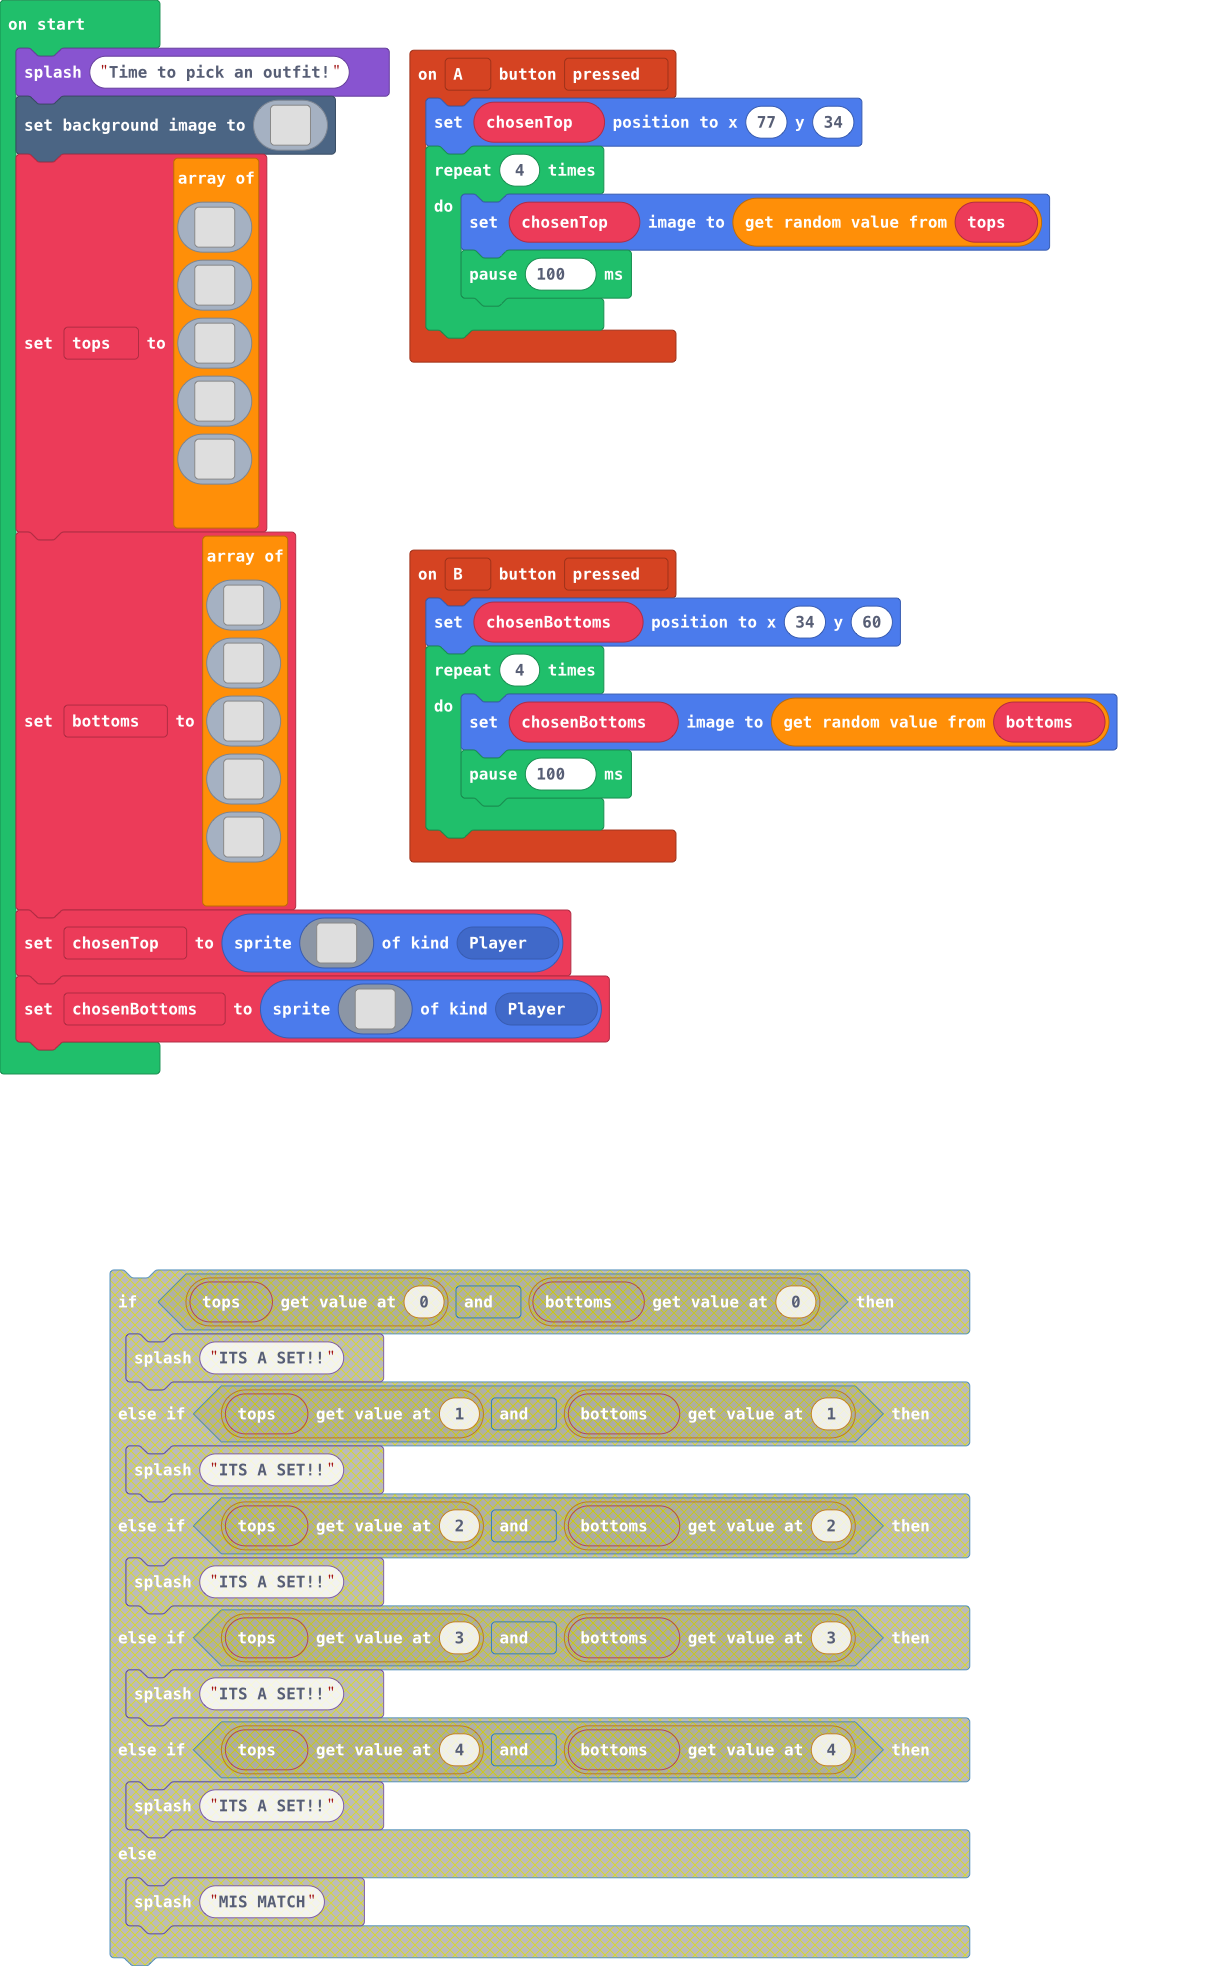
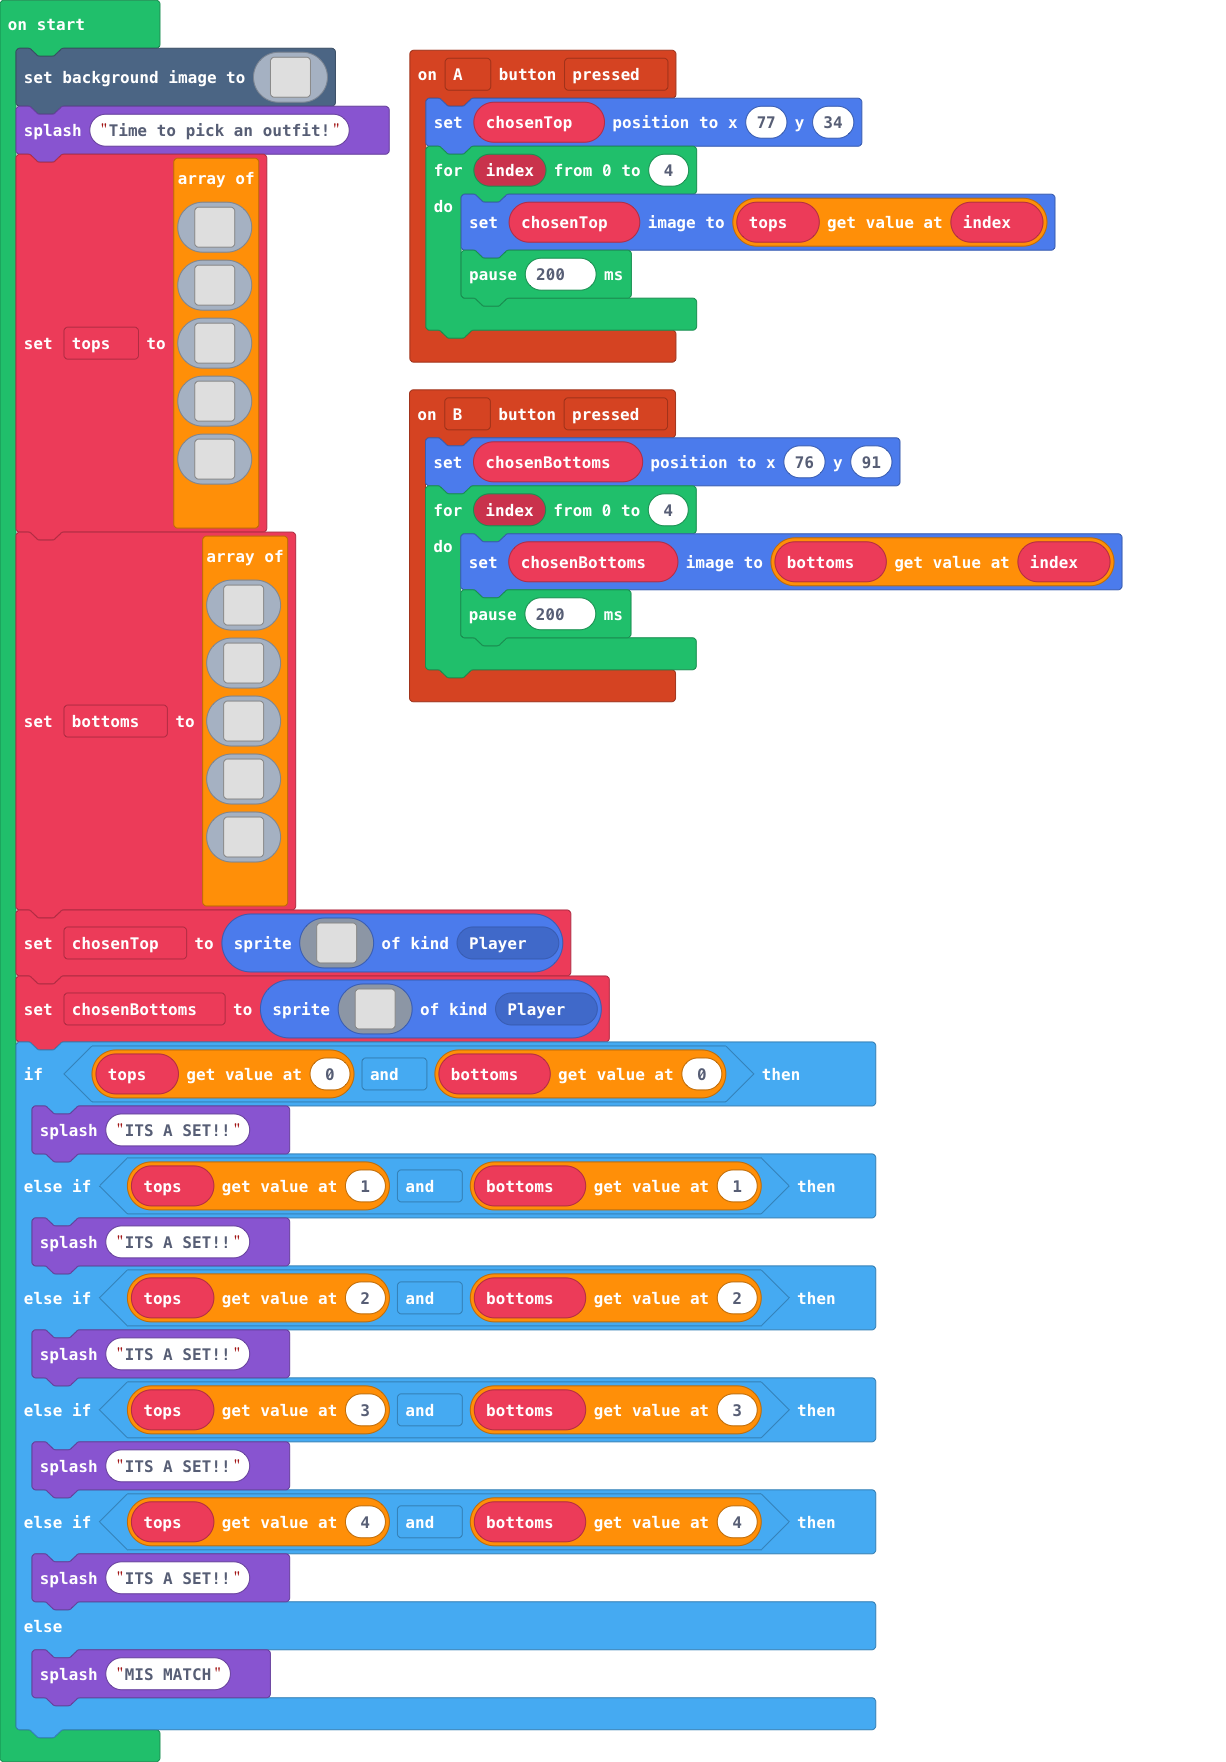
Update main.blocks, main.ts

diff --git a/main.ts b/main.ts
@@ -1,22 +1,21 @@
 controller.B.onEvent(ControllerButtonEvent.Pressed, function () {
-    chosenBottoms.setPosition(34, 60)
-    for (let index = 0; index < 4; index++) {
-        chosenBottoms.setImage(bottoms._pickRandom())
-        pause(100)
+    chosenBottoms.setPosition(76, 91)
+    for (let index = 0; index <= 4; index++) {
+        chosenBottoms.setImage(bottoms[index])
+        pause(200)
     }
 })
 controller.A.onEvent(ControllerButtonEvent.Pressed, function () {
     chosenTop.setPosition(77, 34)
-    for (let index = 0; index < 4; index++) {
-        chosenTop.setImage(tops._pickRandom())
-        pause(100)
+    for (let index = 0; index <= 4; index++) {
+        chosenTop.setImage(tops[index])
+        pause(200)
     }
 })
 let chosenBottoms: Sprite = null
 let chosenTop: Sprite = null
 let bottoms: Image[] = []
 let tops: Image[] = []
-game.splash("Time to pick an outfit!")
 scene.setBackgroundImage(img`
     ffffffffffffffffffffffffffffffffffffffffffffffffffffffffffffffffffffffffffffffffffffffffffffffffffffffffffffffffffffffffffffffffffffffffffffffffffffffffffffffff
     fccccccccccccccccccccccccccccccccccccccccccccccccccccccccccccccccccccccccccccccccccccccccccccccccccccccccccccccccccccccccccccccccccccccccccccccccccccccccccccccf
@@ -139,6 +138,7 @@ scene.setBackgroundImage(img`
     fccccccccccccccccccccccccccccccccccccccccccccccccccccccccccccccccccccccccccccccccccccccccccccccccccccccccccccccccccccccccccccccccccccccccccccccccccccccccccccccf
     ffffffffffffffffffffffffffffffffffffffffffffffffffffffffffffffffffffffffffffffffffffffffffffffffffffffffffffffffffffffffffffffffffffffffffffffffffffffffffffffff
     `)
+game.splash("Time to pick an outfit!")
 tops = [
 img`
     ..................................................
@@ -529,3 +529,16 @@ chosenBottoms = sprites.create(img`
     . . . . . . . . . . . . . . . . 
     . . . . . . . . . . . . . . . . 
     `, SpriteKind.Player)
+if (tops[0] && bottoms[0]) {
+    game.splash("ITS A SET!!")
+} else if (tops[1] && bottoms[1]) {
+    game.splash("ITS A SET!!")
+} else if (tops[2] && bottoms[2]) {
+    game.splash("ITS A SET!!")
+} else if (tops[3] && bottoms[3]) {
+    game.splash("ITS A SET!!")
+} else if (tops[4] && bottoms[4]) {
+    game.splash("ITS A SET!!")
+} else {
+    game.splash("MIS MATCH")
+}
